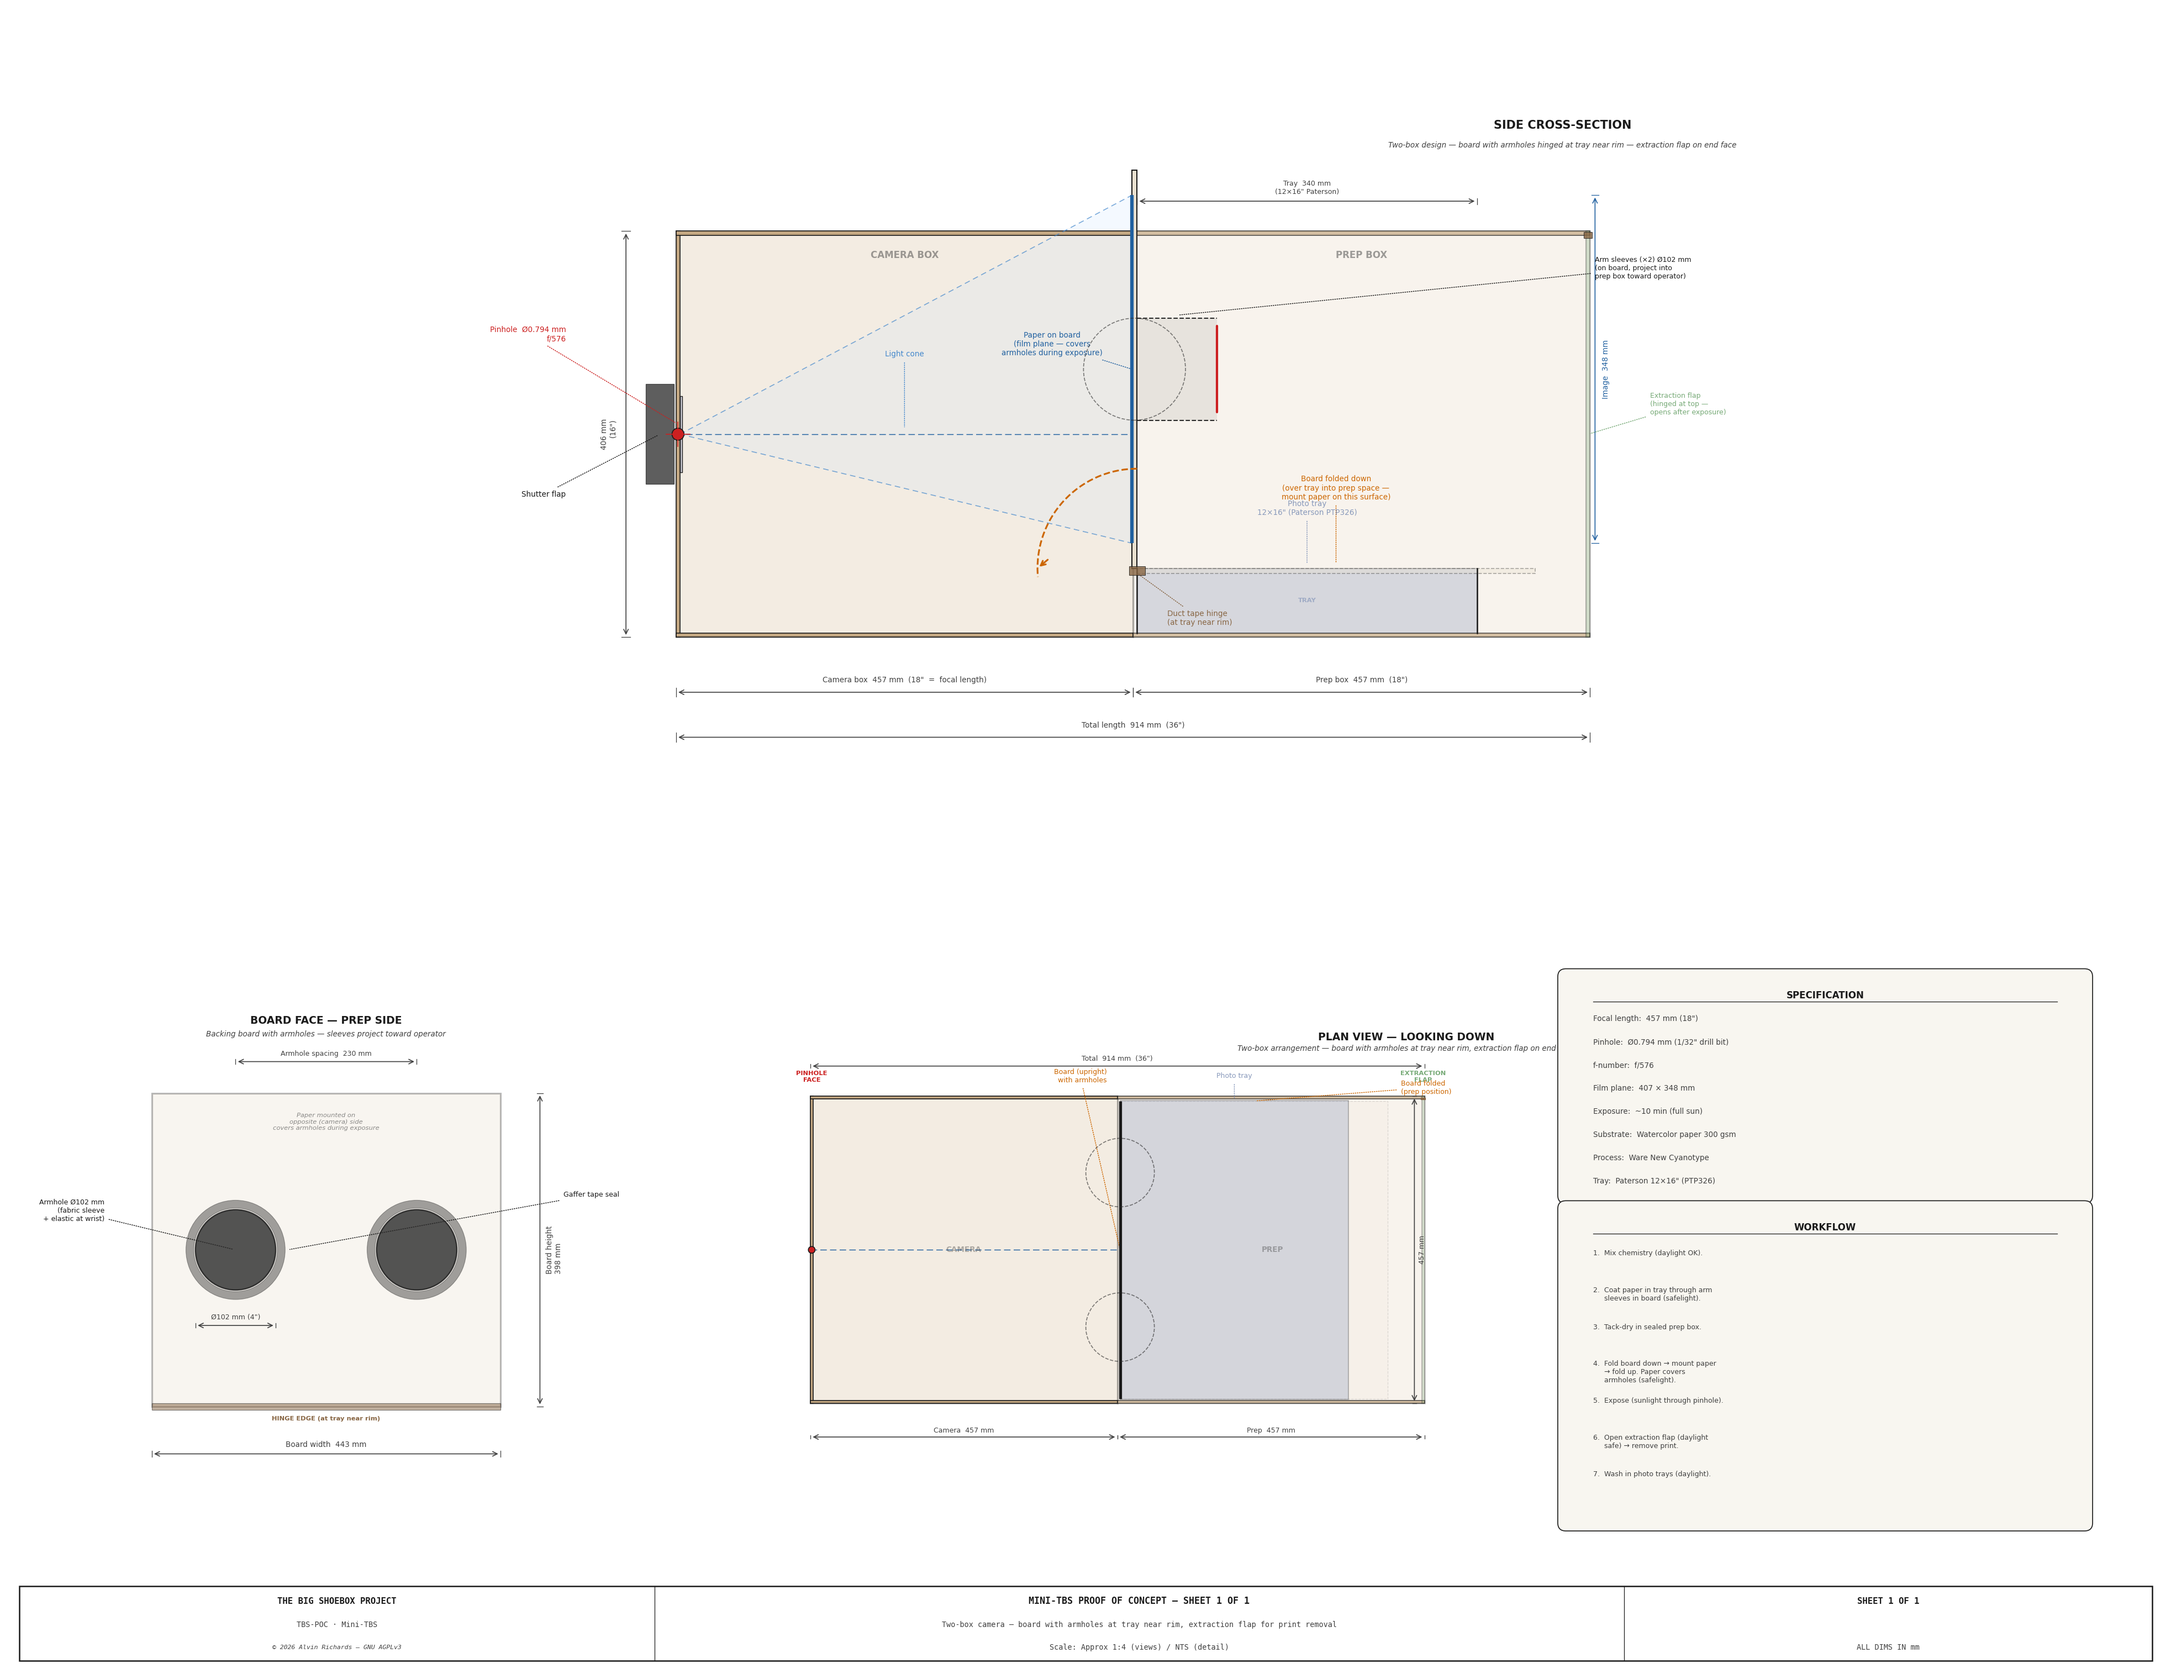
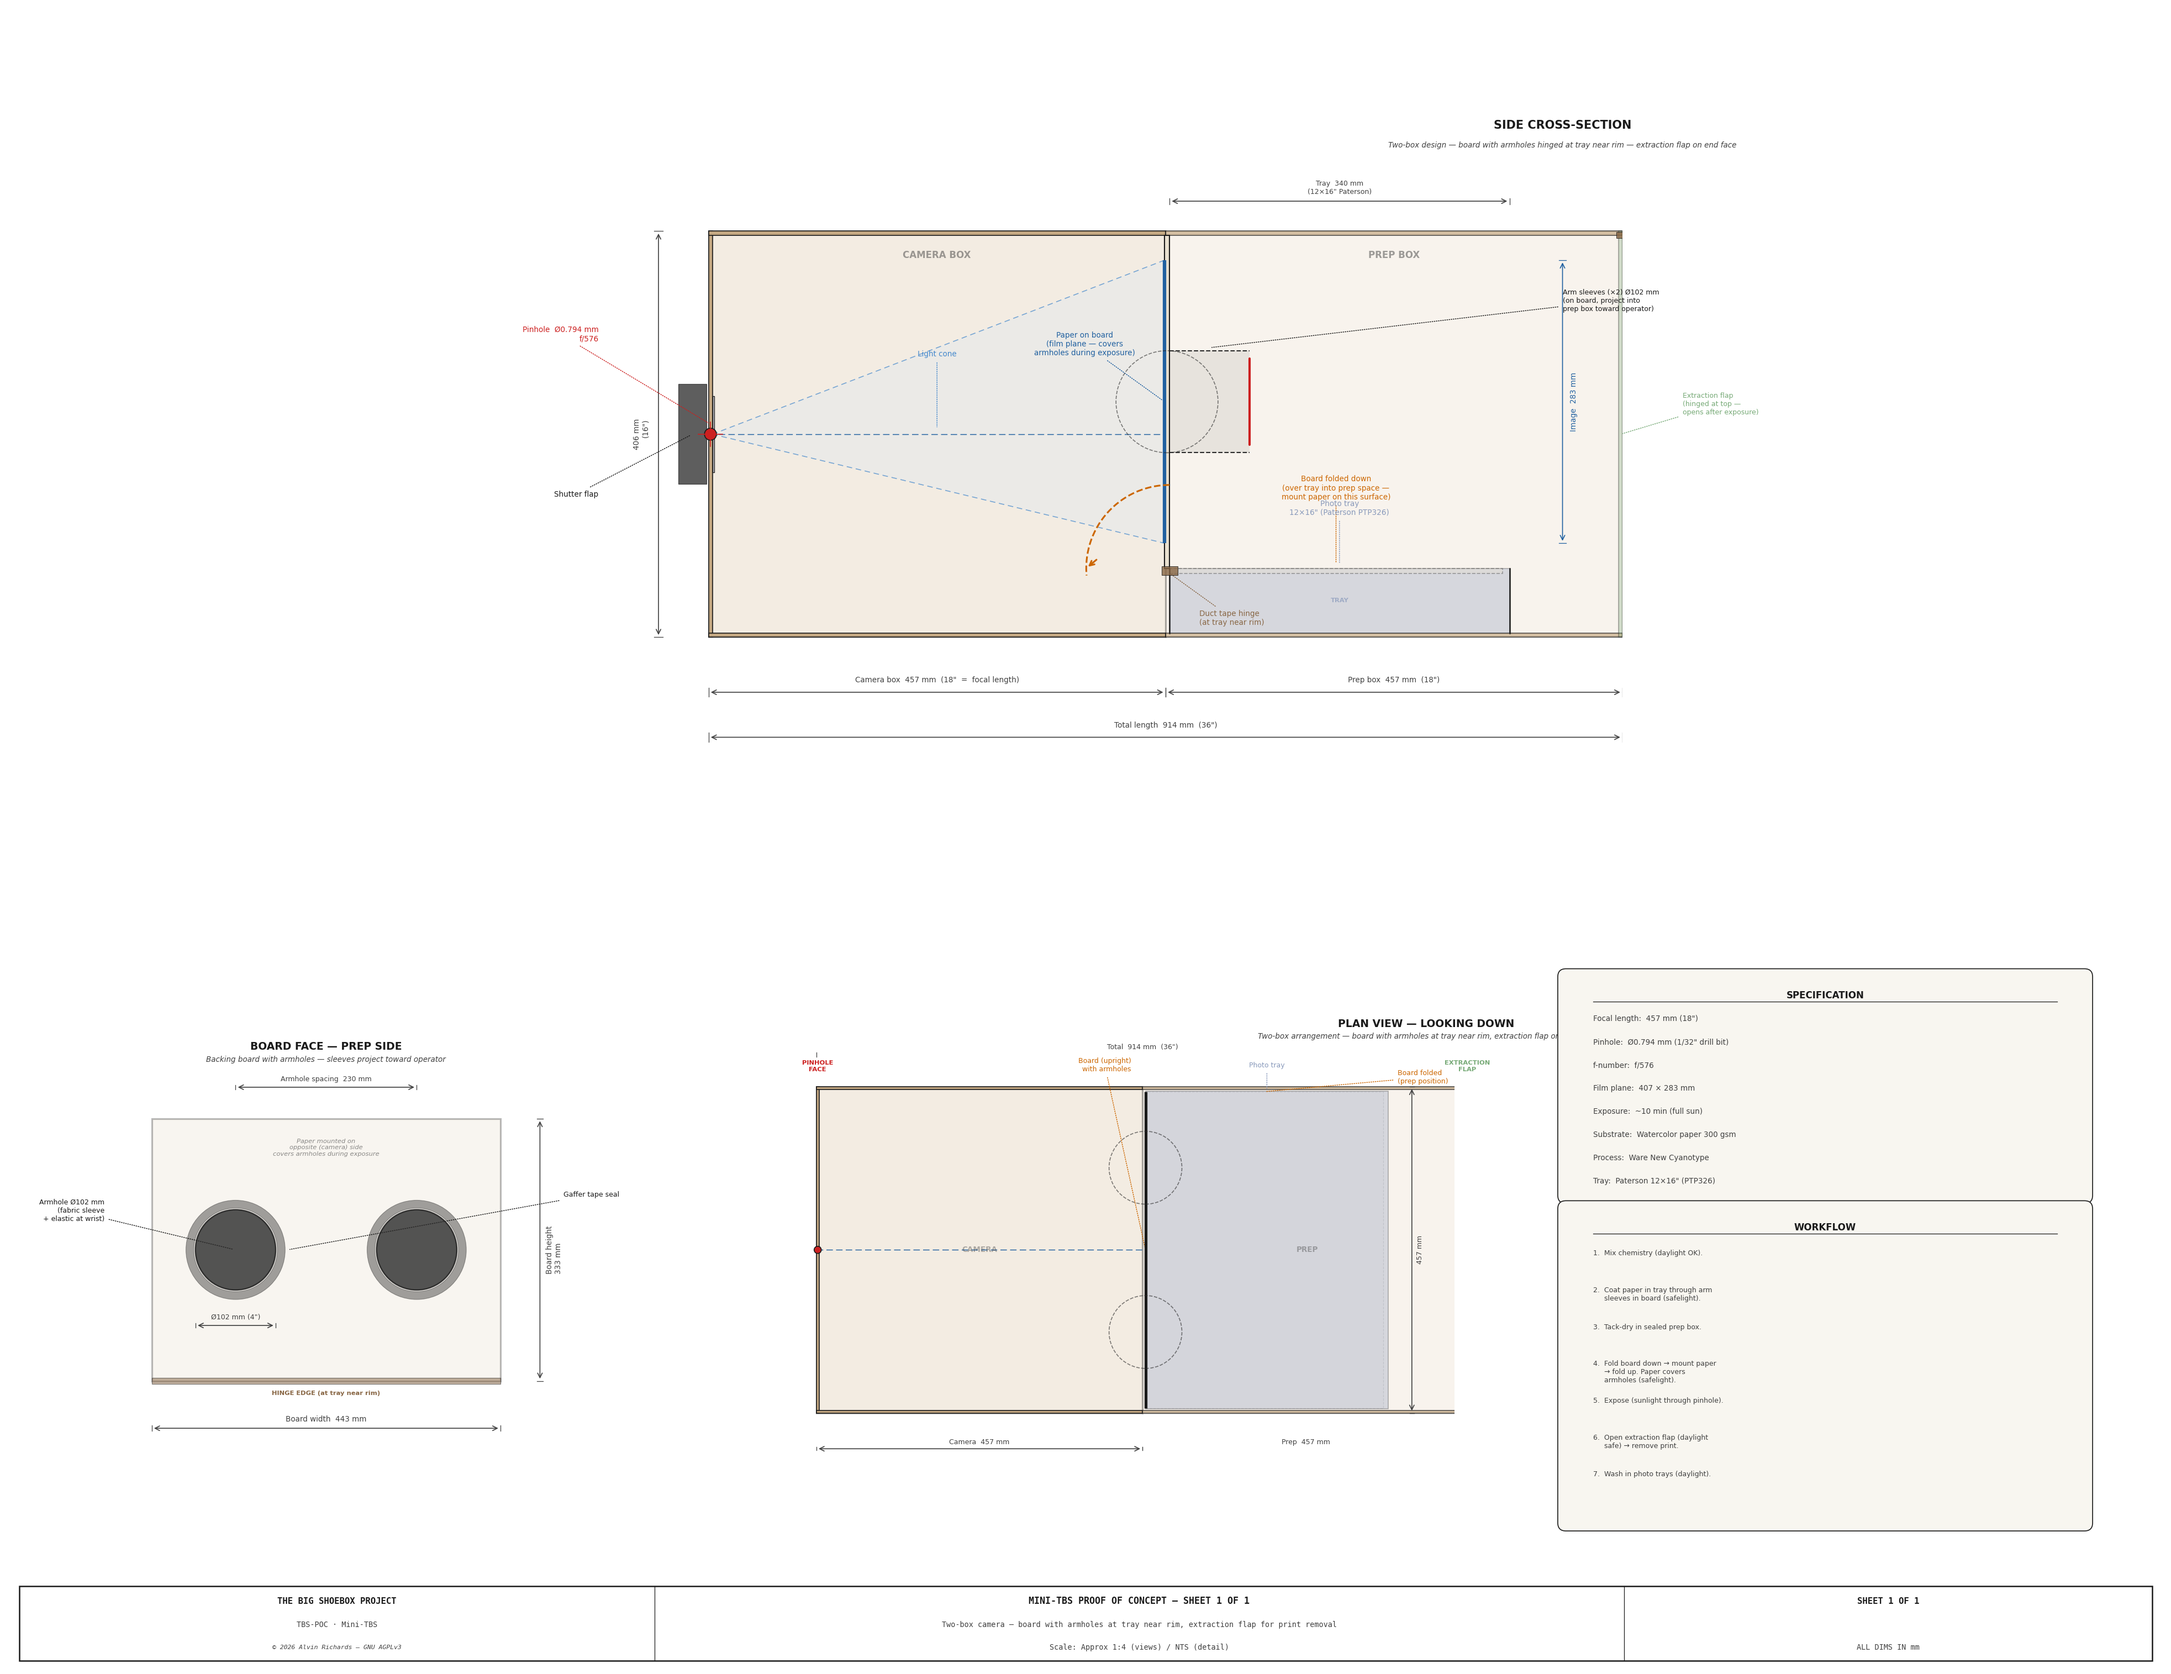
Fix board height to fit from tray rim to ceiling interior
Board was 398mm (full box interior height) but starts at the tray rim
(69mm above floor), extending 61mm above the box ceiling. Recalculated
to 333mm (BOX_H - WALL_T - hinge_y) so it fits correctly. Light cone
now terminates within the camera box.

diff --git a/generate_mini_tbs_diagram.py b/generate_mini_tbs_diagram.py
@@ -58,9 +58,10 @@ TRAY_EXT_D = 340   # mm — external depth in cross-section (~13.4")
 TRAY_EXT_W = 445   # mm — external width (perpendicular to cross-section)
 TRAY_RIM   = 65    # mm — rim height (~2.5")
 
-# Board dimensions (fits inside camera box)
+# Board dimensions (fits inside camera box, hinged at tray rim height)
 BOARD_W = BOX_W - 2 * WALL_T - 6   # ~443 mm — board width (clearance)
-BOARD_H = BOX_H - 2 * WALL_T       # ~398 mm — board height
+HINGE_Y_ABS = WALL_T + TRAY_RIM    # 69 mm — hinge height (tray rim on floor)
+BOARD_H = BOX_H - WALL_T - HINGE_Y_ABS  # ~333 mm — from hinge to ceiling interior
 
 # ── Drawing palette ──────────────────────────────────────────────────────────
 BG         = "#FFFFFF"

diff --git a/mini-tbs/mini-tbs-poc.md b/mini-tbs/mini-tbs-poc.md
@@ -171,7 +171,7 @@ A standard Paterson 12×16" developing tray (PTP326) sits inside the prep box, a
 **Procedure:**
 
 1. Place the Paterson tray inside the prep box, against the camera-box wall. Orient it with the 12" dimension (305 mm) along the depth axis and the 16" dimension (406 mm) across the width. The tray should sit flat on the prep box floor.
-2. Cut a foam-core board panel to fit snugly inside the camera box opening: approximately 17.5 × 15.5 inches (443 × 398 mm, allowing clearance for the box interior).
+2. Cut a foam-core board panel: approximately 17.5 × 13 inches (443 × 333 mm). The board spans from the tray rim height to the camera box ceiling interior — it does not extend to the floor because the hinge is at the tray rim (69 mm above the floor).
 3. **Armholes:** Cut two 4-inch (102 mm) diameter holes in the board, centered vertically, spaced 9 inches (230 mm) apart center-to-center. These holes allow the operator to reach through the board to the tray when the board is upright.
 4. **Arm sleeves:** Attach arm sleeves to the prep side of each armhole (see §4.6). The sleeves project into the prep space when the board is upright.
 5. **Hinge:** Attach the bottom edge of the backing board to the near rim of the tray (the rim closest to the camera box) using a full-width strip of duct tape, applied to both sides. The tape must wrap continuously around the rim — this is a permanent working hinge that will be folded repeatedly.
